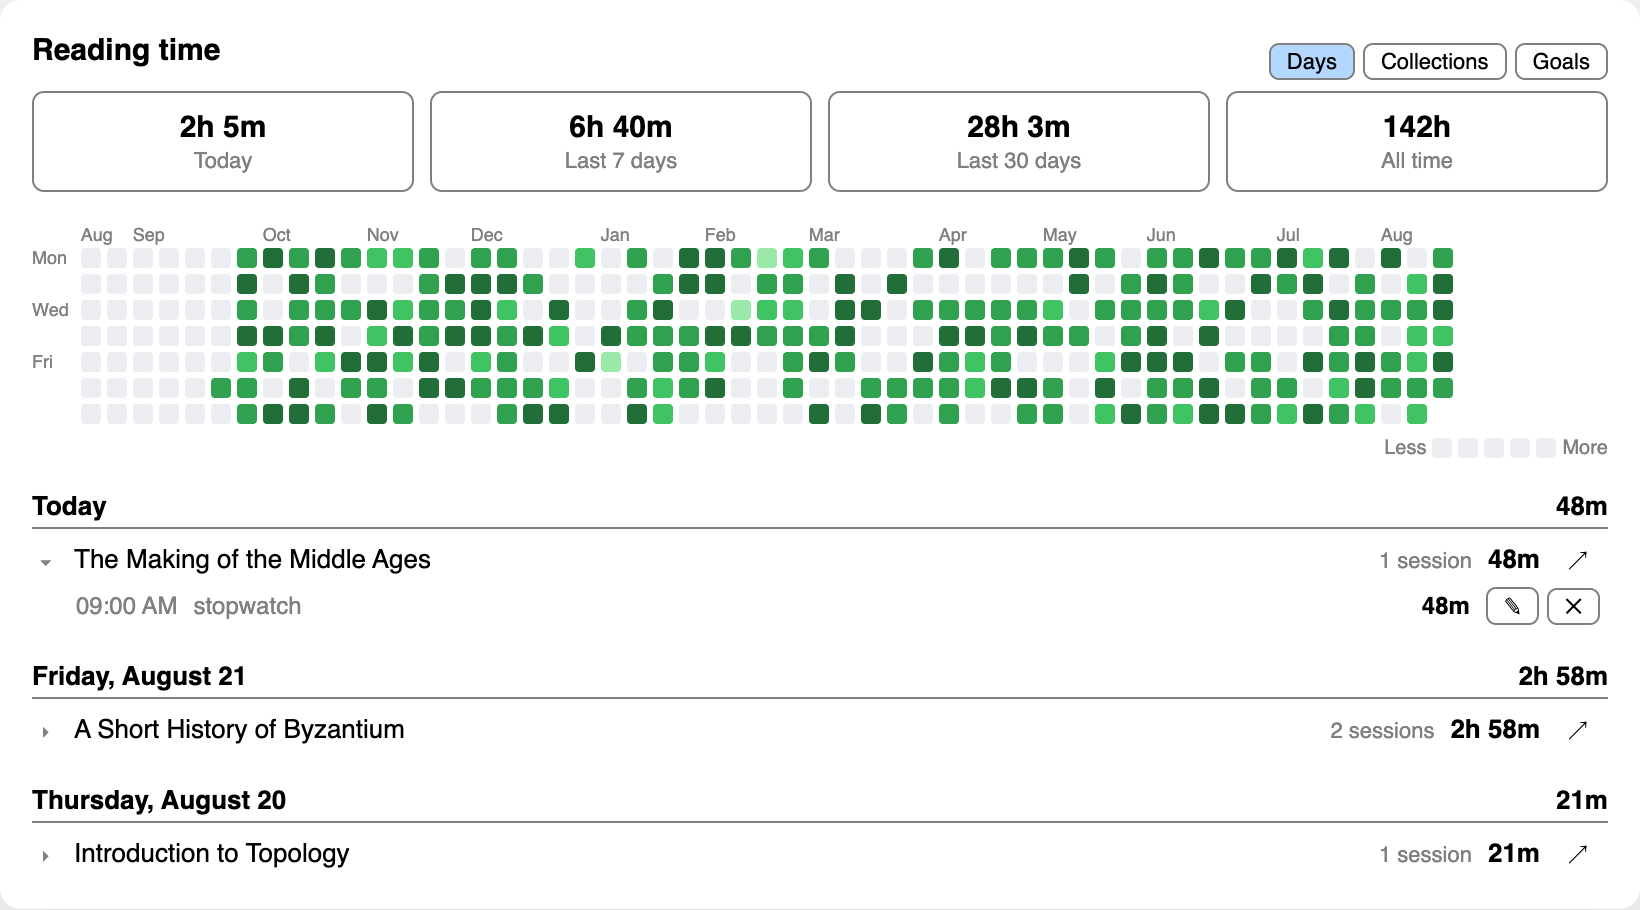
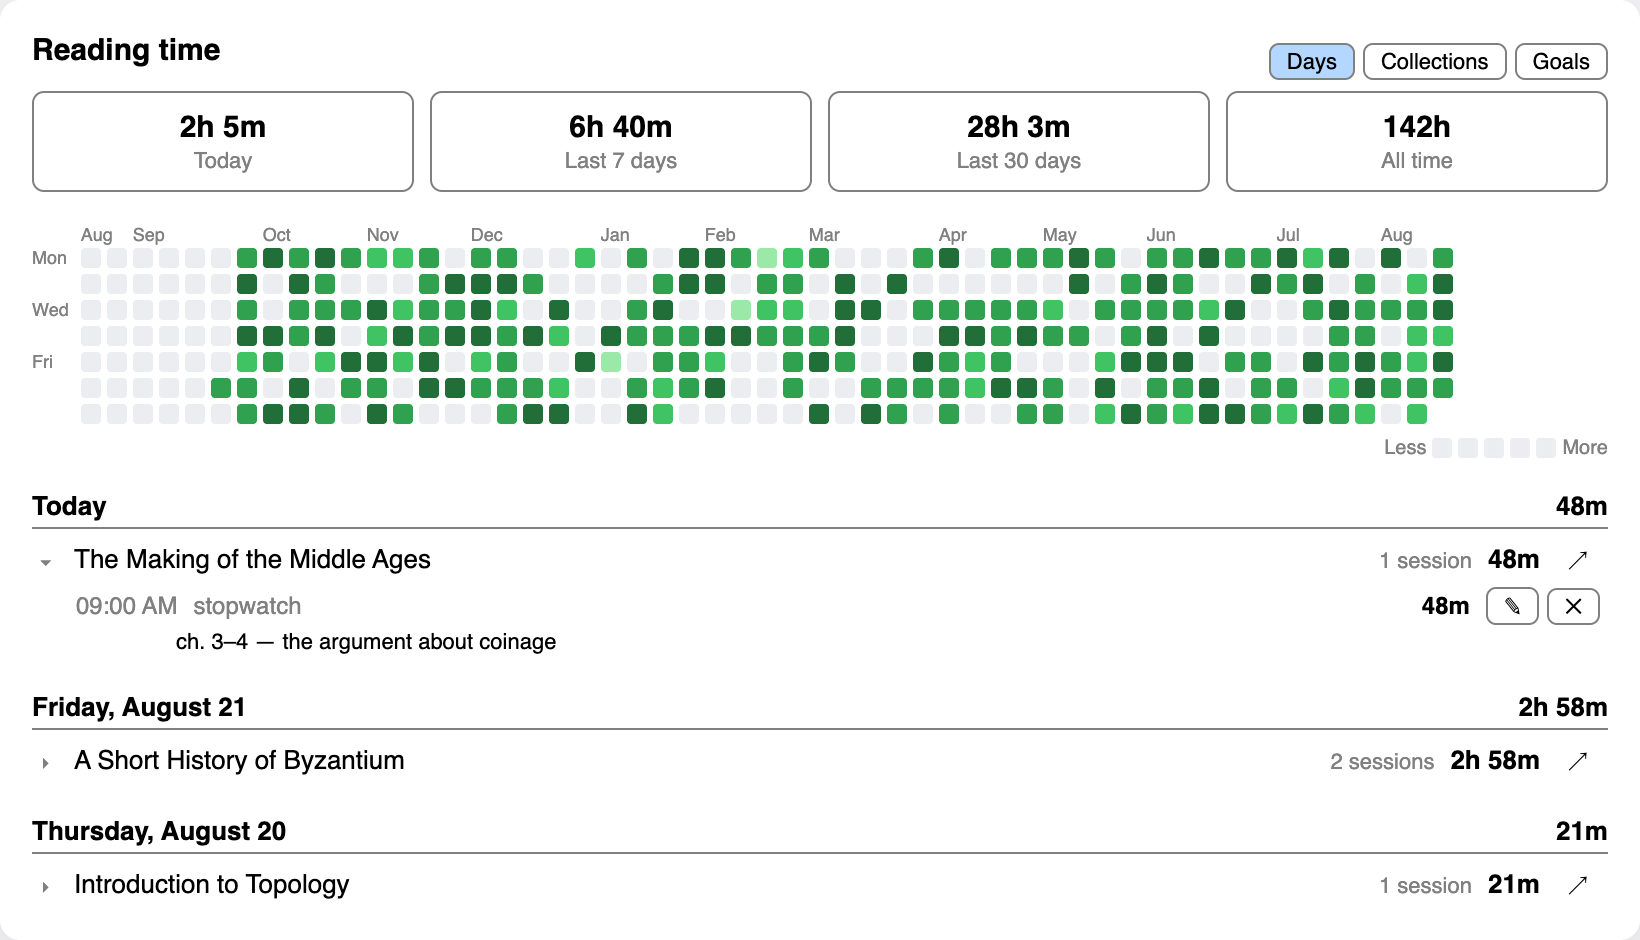
Session notes
A session was an anonymous duration. Each one now carries an optional line
about what you read, which is what makes the history worth going back to.

Written from the reader popup — attached to the running session, or to the last
one finished on that item today, so it can still be written after stopping —
and edited in the history window by clicking under a session. No dialog for one
line of text: the note becomes an input where it sits, Enter or blur saves,
Escape abandons. An unwritten note shows as "Add a note…" on hover rather than
a permanently empty row.

migrate() now walks a list of (table, column, type) instead of one hard-coded
ALTER, since this is the second column added to an existing table.

diff --git a/bootstrap.js b/bootstrap.js
@@ -94,13 +94,14 @@ const SCHEMA = [
 		title TEXT,
 		mode TEXT NOT NULL,        -- stopwatch | pomodoro | manual
 		started INTEGER NOT NULL,  -- unix ms
-		seconds INTEGER NOT NULL   -- countable time; manual entries may be negative
+		seconds INTEGER NOT NULL,  -- countable time; manual entries may be negative
+		note    TEXT               -- optional line about what you read
 	)`,
 	`CREATE INDEX IF NOT EXISTS sessions_item ON sessions (libraryID, itemKey)`,
 	`CREATE INDEX IF NOT EXISTS sessions_started ON sessions (started)`,
 ];
 
-const COLS = ["id", "libraryID", "itemKey", "title", "mode", "started", "seconds"];
+const COLS = ["id", "libraryID", "itemKey", "title", "mode", "started", "seconds", "note"];
 
 // One row per goal. Keyed by item/collection key rather than a numeric id so a
 // goal survives anything that renumbers rows, and matching `sessions` in using
@@ -128,7 +129,7 @@ const GOAL_COLS = ["id", "libraryID", "scope", "key", "seconds", "period", "dead
 
 // Bump when the shape changes; the stamp is a marker for migrations that can't
 // be made idempotent. Adding a column doesn't need one — see migrate().
-const DB_VERSION = 2;
+const DB_VERSION = 3;
 
 // <Zotero data dir>/time-tracker.sqlite — ours alone, next to zotero.sqlite.
 //
@@ -177,10 +178,17 @@ async function openDB() {
 // Columns added to an existing table. Driven by what the file actually has
 // rather than by the version stamp: CREATE TABLE IF NOT EXISTS gives a fresh
 // database every column already, so a version-driven ALTER would fail on it.
+const ADDED_COLUMNS = [
+	["goals", "completedAt", "INTEGER"],
+	["sessions", "note", "TEXT"],
+];
+
 async function migrate(conn) {
-	const columns = (await conn.queryAsync("PRAGMA table_info(goals)")).map((r) => r.name);
-	if (!columns.includes("completedAt")) {
-		await conn.queryAsync("ALTER TABLE goals ADD COLUMN completedAt INTEGER");
+	for (const [table, column, type] of ADDED_COLUMNS) {
+		const columns = (await conn.queryAsync(`PRAGMA table_info(${table})`)).map((r) => r.name);
+		if (!columns.includes(column)) {
+			await conn.queryAsync(`ALTER TABLE ${table} ADD COLUMN ${column} ${type}`);
+		}
 	}
 }
 
@@ -253,7 +261,7 @@ function addRow(item, mode, seconds, started = Date.now()) {
 	const row = {
 		id: Zotero.Utilities.randomString(12),
 		libraryID: item.libraryID, itemKey: item.key,
-		title: item.getDisplayTitle(), mode, started, seconds: Math.round(seconds),
+		title: item.getDisplayTitle(), mode, started, seconds: Math.round(seconds), note: null,
 	};
 	log.push(row);
 	db.queryAsync(`INSERT INTO sessions (${COLS.join(", ")}) VALUES (${COLS.map(() => "?").join(", ")})`,
@@ -263,8 +271,8 @@ function addRow(item, mode, seconds, started = Date.now()) {
 
 function saveRow(row) {
 	if (!db) return;   // nothing to write to; the in-memory log still has it
-	db.queryAsync("UPDATE sessions SET seconds = ?, title = ? WHERE id = ?",
-		[row.seconds, row.title, row.id]).catch(oops);
+	db.queryAsync("UPDATE sessions SET seconds = ?, title = ?, note = ? WHERE id = ?",
+		[row.seconds, row.title, row.note || null, row.id]).catch(oops);
 }
 
 // Upsert: the unique index makes "set a goal" replace the one already on that
@@ -511,6 +519,9 @@ const CSS = `
 .rt-panel .rt-add input { flex:1; min-width:0; box-sizing:border-box; padding:4px 6px; font:12px sans-serif; }
 .rt-panel .rt-add button { flex:0 0 auto; }
 .rt-panel .rt-goal { margin-top:8px; }
+.rt-panel .rt-note { margin-top:8px; }
+.rt-panel .rt-note input { width:100%; box-sizing:border-box; padding:4px 6px; font:12px sans-serif;
+	background:Canvas; color:CanvasText; border:1px solid GrayText; border-radius:4px; }
 .rt-panel .rt-goalbtn { width:100%; margin-top:8px; }
 .rt-panel .rt-goal .rt-row .rt-muted { flex:1; min-width:0; overflow:hidden;
 	text-overflow:ellipsis; white-space:nowrap; }
@@ -814,6 +825,40 @@ function fillPanel(doc, box, item, reader) {
 		return { g, label, value, fill, mark };
 	});
 
+	// A note goes on the session it belongs to: the running one, or the last one
+	// finished on this item today — so it can still be written after stopping.
+	const notable = () => {
+		if (timer && timer.id === idOf(item) && timer.row) return timer.row;
+		const since = startOfDay(Date.now());
+		for (let i = log.length - 1; i >= 0; i--) {
+			const r = log[i];
+			if (r.started < since) break;
+			if (r.libraryID === item.libraryID && r.itemKey === item.key) return r;
+		}
+		return null;
+	};
+
+	const noteBox = el(doc, "div", "rt-note");
+	const noteInput = doc.createElement("input");
+	noteInput.type = "text";
+	noteInput.placeholder = "📝 Note for this session…";
+	const saveNote = () => {
+		const r = notable();
+		if (!r) return;
+		const value = noteInput.value.trim() || null;
+		if (value === (r.note || null)) return;
+		r.note = value;
+		saveRow(r);
+	};
+	noteInput.addEventListener("keydown", (e) => {
+		if (e.key === "Escape") return;   // let it bubble so the panel closes
+		e.stopPropagation();              // keys must not trigger reader shortcuts
+		if (e.key === "Enter") saveNote();
+	});
+	noteInput.addEventListener("blur", saveNote);
+	noteBox.append(noteInput);
+	box.insertBefore(noteBox, add);
+
 	// Setting a goal without leaving the book. The item's own goal is the one
 	// worth having here; collection and library-wide goals live in the Goals tab.
 	const rebuild = () => safe(() => tryFill(doc, box, reader));
@@ -897,6 +942,10 @@ function fillPanel(doc, box, item, reader) {
 				b.mark.title = b.g.completedAt ? "Reopen this goal" : "Mark as read — finished early";
 			}
 		}
+		const jotting = notable();
+		noteBox.hidden = !jotting;
+		// Never overwrite what is being typed.
+		if (jotting && doc.activeElement !== noteInput) noteInput.value = jotting.note || "";
 		pomLabel.textContent = `🍅 Focus ${focusMin}m`;
 		stats.forEach(([, get], i) => { values[i].textContent = fmtTotal(safe(get, 0)) || "0m"; });
 		const mine = isMine(item);
@@ -1226,6 +1275,11 @@ h1 { font-size:15px; margin:0 0 12px; }
 .session .mode { flex:1; min-width:0; }
 .session b { color:CanvasText; font-variant-numeric:tabular-nums; }
 .session .act { display:flex; gap:4px; align-items:center; }
+.snote { font-size:11px; color:CanvasText; padding:0 4px 3px 54px; cursor:text; overflow-wrap:anywhere; }
+.snote.empty { color:GrayText; opacity:0; }
+.session-wrap:hover .snote.empty { opacity:1; }
+.snote-input { width:calc(100% - 58px); margin:0 4px 3px 54px; padding:2px 5px; font:11px sans-serif;
+	background:Canvas; color:CanvasText; border:1px solid GrayText; border-radius:4px; }
 
 /* heatmap */
 body { --l0:#ebedf0; --l1:#9be9a8; --l2:#40c463; --l3:#30a14e; --l4:#216e39; }
@@ -1349,6 +1403,7 @@ function heatmapEls(doc, rows) {
 // One logged session: when it started, how it was tracked, how long — and the
 // two things you can do to it. Editing writes an absolute duration; 0 deletes.
 function sessionRow(doc, win, r) {
+	const wrap = el(doc, "div", "session-wrap");
 	const line = el(doc, "div", "session");
 	const live = !!(timer && timer.row === r);
 	line.append(
@@ -1370,7 +1425,42 @@ function sessionRow(doc, win, r) {
 	}
 	line.append(act);
 	line.addEventListener("click", (e) => e.stopPropagation());  // don't collapse the list
-	return line;
+
+	// The note lives under its session and is edited where it sits — no dialog
+	// for one line of text.
+	const note = el(doc, "div", "snote");
+	const show = () => {
+		note.textContent = r.note || "Add a note…";
+		note.className = r.note ? "snote" : "snote empty";
+	};
+	const edit = () => {
+		const input = doc.createElement("input");
+		input.type = "text";
+		input.className = "snote-input";
+		input.value = r.note || "";
+		input.placeholder = "What did you read?";
+		let closed = false;
+		const close = (save) => {
+			if (closed) return;
+			closed = true;
+			if (save) { r.note = input.value.trim() || null; saveRow(r); }
+			input.replaceWith(note);
+			show();
+		};
+		input.addEventListener("keydown", (e) => {
+			e.stopPropagation();
+			if (e.key === "Enter") close(true);
+			else if (e.key === "Escape") close(false);
+		});
+		input.addEventListener("blur", () => close(true));
+		note.replaceWith(input);
+		input.focus();
+	};
+	note.addEventListener("click", (e) => { e.stopPropagation(); edit(); });
+	show();
+
+	wrap.append(line, note);
+	return wrap;
 }
 
 function editSession(win, r) {

diff --git a/test.js b/test.js
@@ -257,7 +257,7 @@ global.Zotero.Collections = { get: () => null, getByLibraryAndKey: () => null };
 book.getCollections = () => [];
 
 I.log.length = 0;
-I.log.push({ id: "h1", libraryID: 1, itemKey: "BOOK", title: "A Book", mode: "stopwatch", started: Date.now() - 3600e3, seconds: 1860 },
+I.log.push({ id: "h1", libraryID: 1, itemKey: "BOOK", title: "A Book", mode: "stopwatch", started: Date.now() - 3600e3, seconds: 1860, note: "ch. 3-4, the argument about coinage" },
 	{ id: "h2", libraryID: 1, itemKey: "BOOK", title: "A Book", mode: "pomodoro", started: Date.now() - 86400000, seconds: 3000 });
 I.goals.push({ id: "g1", libraryID: 1, scope: "item", key: "BOOK", seconds: 7200, period: "total", updatedAt: Date.now() });
 
@@ -273,5 +273,13 @@ I.buildHistory({ document: doc });
 assert.strictEqual(drawn(doc.body, "day"), 2, "one header per day");
 assert.strictEqual(drawn(doc.body, "item"), 2, "and its items under it — not just the header");
 assert.strictEqual(drawn(doc.body, "sessions"), 2, "each with its sessions");
+
+// A session's note is drawn under it, and an empty one still offers the slot.
+const notes = [];
+const walk = (n) => { if ((n.className || "").startsWith("snote")) notes.push(n); (n.children || []).forEach(walk); };
+doc.body.children.forEach(walk);
+assert.strictEqual(notes.length, 2, "every session has a note line");
+assert.ok(notes.some((n) => n.textContent.includes("coinage")), "the written note is shown");
+assert.ok(notes.some((n) => n.className.includes("empty")), "an unwritten one is an invitation, not a blank");
 
 console.log("ok");

diff --git a/README.md b/README.md
@@ -16,6 +16,10 @@ ways to log time on the item you're reading:
   toward reading time. The length can still be adjusted mid-run, and is
   remembered in `extensions.zotero.readingTime.focusMin`.
 - **Manual entry** — type `25`, `1h 30m`, `45s`, or `-10` to subtract.
+- **A note** — one line about what you read, saved against the session it
+  belongs to: the running one, or the last one you finished on that item today,
+  so it can still be written after you stop. Notes show under their session in
+  the history window and are editable there.
 
 While a timer runs the live time sits inside the clock button, so you can close
 the popup and keep reading. The popup also shows **This item / Today / Last 7
@@ -37,7 +41,8 @@ window with:
   time, click one to jump to that day below;
 - every day you read, newest first, with each item's time and session count.
   Click a line to unfold that day's individual sessions — each one can be
-  re-timed (✎, enter a new duration; 0 deletes it) or deleted (✕). Use ↗ to
+  re-timed (✎, enter a new duration; 0 deletes it) or deleted (✕), and each
+  carries a note — click under a session to write what you read. Use ↗ to
   select the item in the library.
 
 For one item only, use **↗ right-click an item → Reading Time History…** in the
